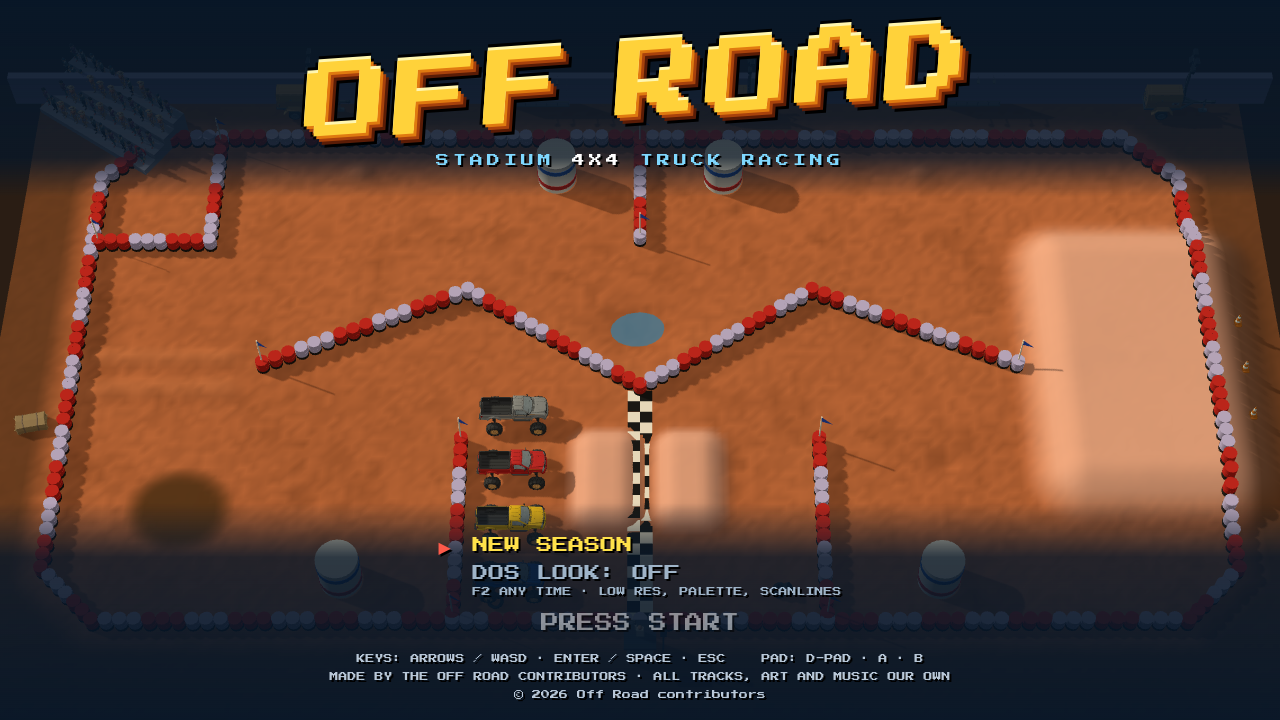
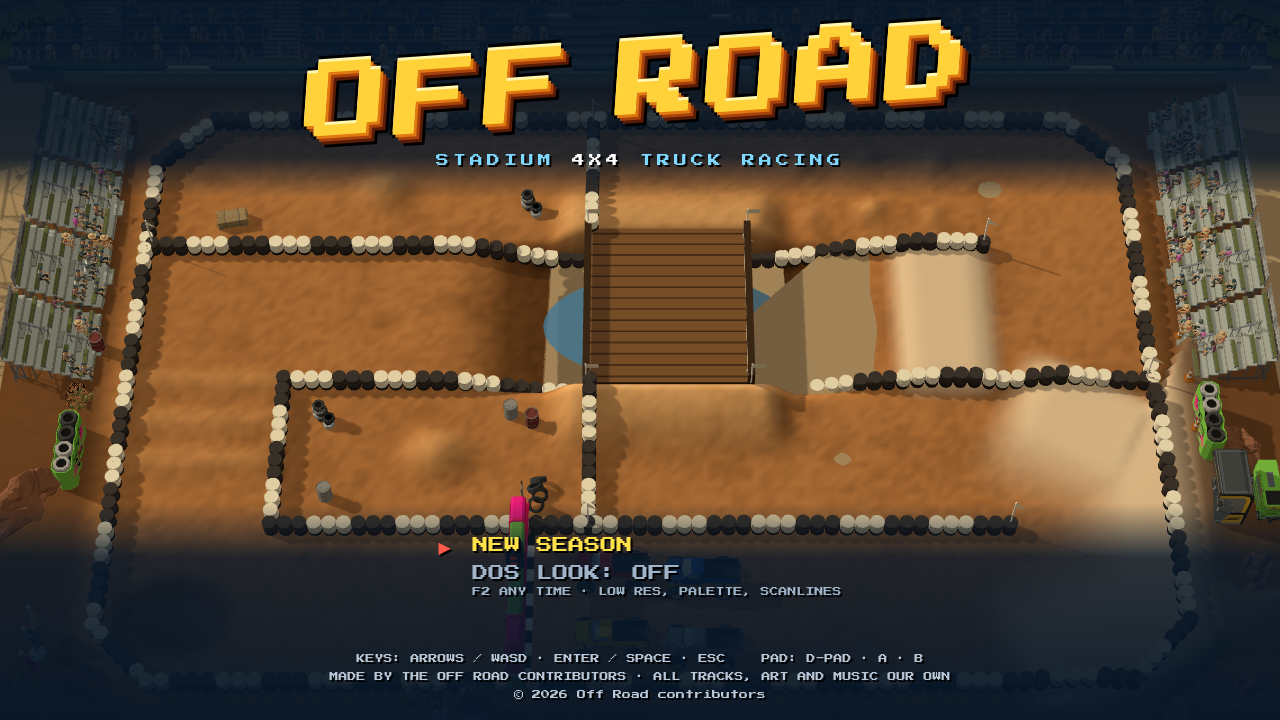
Docs: stadium, crowd, podium and nitro flame in DESIGN (models table, sizes, cost, vehicle decision), README features and pack credits, new screenshots; TODO OR5

diff --git a/docs/DESIGN.md b/docs/DESIGN.md
@@ -37,7 +37,9 @@ src/
     build.ts         grid → ground mesh (per-track palette), water (ellipses, creek ribbons), mud sheen, tyre walls +
                      flags, bridge decks + railings, start line, flagman tower + start lamps, stadium dressing, props
                      (bunting, solid drums), colliders, surface queries, levelAt (deck or ground)
-    props-view.ts    swaps the placeholder props for instanced prop GLBs (PROP_MODELS table) + floodlights
+    props-view.ts    swaps the placeholder props for instanced prop GLBs (PROP_MODELS table); instanceModel()
+    stadium-view.ts  the stadium from the models: grandstands, VIP box, bleachers, start arch + start light, flagman
+                     character, flags, billboards, desert dressing, tumbleweeds; finds the stands' seats
   race/
     session.ts       the world + track + 1–4 trucks and views, effects, physics → game events
     race.ts          the race flow: Get Ready → lamps → race (gates, laps) → finish → results, records, pickups
@@ -49,7 +51,8 @@ src/
                      MeshoptDecoder), withVariant() (KHR_materials_variants), loadTruckModels()
     truck-view.ts    the truck's look: the generator's GLB with manifest-driven wheels, or the box placeholder
     characters.ts    the generator's Synty characters: Character (clone + mixer, play by clip), loadPoses()
-    crowd.ts         the grandstand fans: a few skinned, the rest the generator's baked poses instanced; cheers
+    crowd.ts         the fans on the stadium's seats: a few skinned, the rest baked poses instanced; seated, they
+                     jump up or cheer seated on finishes and big jumps
   fx/
     particles.ts     pooled instanced billboards: dust, water splash, mud spray, nitro smoke
     skids.ts         skid-mark decals: a ring buffer of instanced ground segments that fade out
@@ -57,7 +60,8 @@ src/
     pixel.ts         the bundled pixel font (Press Start 2P) and a style helper
     race-hud.ts      the one-panel race HUD, the track name, centre banners, floating pickup texts
     results.ts       the podium / results screen (season: FREE RACE! / CREDIT LOST, credits, the shop prompt)
-    podium-view.ts   the results screen's 3D podium: its own small canvas, drivers, trucks, trophy
+    podium-view.ts   the results screen's 3D podium: its own small canvas, the podium model, drivers, trucks, trophy,
+                     confetti
     toast.ts         a short message at the top (F2's DOS look setting)
     debug.ts         F3 overlay
     screens/         full-screen menus: common (DOS look, panels, icons), title, hints, register (+ get ready),
@@ -124,7 +128,8 @@ faces +z (south) and π/2 faces +x (east).
 | `flagman {x, z, heading}` | the flagman's tower and start lamps beside the line |
 | `laps?` | default 4 |
 | `reverse {start}` | the reversed variant's grid; the line, the gate order and ramp headings flip automatically (`getTrack(id, true)`, id `<id>-r`) |
-| `props[]` | dressing: `tyre_pile`, `barrel`, `hay_bale`, `cone` (drawn, not collided), `bunting` (pennants on two poles, `len` m across `rot`, standing on the highest ground under it: marks a jump), `drum` (a 3 m banded drum, solid) |
+| `props[]` | dressing: `tyre_pile`, `barrel`, `hay_bale`, `cone` (drawn, not collided), `bunting` (pennants on two poles, `len` m across `rot`, standing on the highest ground under it: marks a jump), `drum` (a 3 m banded drum, solid); trackside (outside the walls): `tyre_barrier` (a sponsor tyre barrier), `flags`, `pit_wall`, `pit_box`, `cactus`, `rock` |
+| `stadium?` | the stadium around the arena (with models): `vip` (x of the VIP box in the grandstand row, null for none, default 0), `sides` (bleachers outside the side walls, default true), `desert` (share of the desert spots filled, 0.6), `flora` (`cactus` saguaros, `scrub` low cacti/succulents/dead trees, `mixed`), `tumbleweeds` (3), `sand` (the ground colour outside) |
 | `palette?` | the track's accent colours: `dirt`, `dirtDark`, `dirtLight`, `ridge`, `wallA` / `wallB` (the tyre paint bands, bridge stripes), `flag`, `backWall`, `accent` (barrels) |
 
 **Bridges (crossings).** A heightfield has one height per point, so a crossover is a `bridge` feature plus its own
@@ -269,6 +274,10 @@ speed, nitro), `impact` (wall / truck / ground, strength 0..1, from Rapier conta
 - `fx/particles.ts`: one instanced billboard mesh (InstancedBufferGeometry + a tiny shader, one draw call), up to
   1200 particles simulated per physics step: dust puffs behind the rear wheels on dirt (rate with speed and slides),
   white spray in water, dark mud flecks in mud, a white nitro puff, a dust ring on hard landings.
+- Nitro flame (`race/truck-view.ts`): while a nitro burns, two flames out of the back of the truck: the Pro Racer
+  flame mesh (`flame`) pointed backwards, drawn with an additive orange material and a white-hot core of our own
+  (the export has no FX shader, OR-FB-019), its length and width jittering every frame (about 1.6 m), fading in and
+  out over a tenth of a second.
 - `fx/skids.ts`: a ring buffer of 2400 ground segments drawn as instanced quads built in the vertex shader from
   their two ends; each wheel extends its trail while sliding (> 2.2 m/s sideways) or braking hard, fading over 22 s.
 
@@ -318,6 +327,9 @@ levels / nitros / keys, `cpus[]`, last outcome, shop cursor and turn, the sign-u
 - `scripts/load-check.mjs <url> title|shop`: the title (ground check on the demo race) and the shop (menus only).
 - `scripts/lap-probe.mjs <url> [track] [tuning JSON]`: lap times and speeds alone, for tuning.
 - `scripts/feel-probe.mjs`: acceleration, braking, turn rate, jump and whoops numbers on the proving ground.
+- `scripts/view.mjs <url> <query> <name> <view…>`: close-ups (`px,py,pz>tx,ty,tz`), `race` (the game camera),
+  `cheer`, `js:<code>` steps and `perf` (8 s real time: fps, draw calls, triangles; `BREAKDOWN=1` lists triangles
+  by mesh) → `test-results/view-<name>-<k>.png`.
 
 ## Season and flow (OR3, OR4 title)
 
@@ -446,24 +458,37 @@ afterwards: `__HAS_MODELS__` (vite.config.ts) is decided at server start, so a m
 
 | Name | Asset | Notes |
 |---|---|---|
-| `truck` | `POLYGON_Palm_City/SM_Veh_Pickup_01` + attach `SM_Veh_Pickup_Lift_01` | `variants` red #c62828 / blue #1e5bc6 / yellow #f2c618 / grey #8a8f94 in one GLB, `origin: axle-centre`, `fit: { length: 4.5 }`, 1024 px, `compress: meshopt` (585 KB) |
-| `tire_pile`, `tire_stack` | Apocalypse `SM_Prop_Tire_Pile_01`, BattleRoyale `SM_Prop_TireStack_01` | kind `tyre_pile` (variant by position) |
-| `barrel`, `barrel_coloured` | Apocalypse `SM_Prop_Barrel_01`, `SM_Prop_Barrel_Coloured_01` | kind `barrel` |
-| `hay_bale` | War `SM_Prop_Hay_Bale_01` | kind `hay_bale` |
-| `tire`, `cone`, `barrier` | Apocalypse `SM_Prop_Tire_01`, Palm City `SM_Prop_Cone_01`, `SM_Prop_Barrier_01` | kinds `tyre`, `cone`, `barrier`, ready for new tracks |
-| `floodlight` | Apocalypse `SM_Prop_Floodlights_01` (a light-mast trailer) | stadium dressing along the back wall |
-| `billboard_pizza/burgers/holiday/donuts` | City `SM_Prop_Billboard_01` + attach `SM_Prop_Billboard_Sign_02/06/03/04` | adverts between the floodlights on the back wall; 1024 px so the art reads (54–260 KB) |
-| `driver_red/yellow/blue/grey` | City Characters `SK_Character_Biker`, BattleRoyale `Character_RedneckMale_01`, Apocalypse `SK_Chr_Mechanic_Female_01`, City Characters `SK_Character_Roadworker` | podium drivers; clips idle, victory, three waves, slumped, qualified `@Masculine` / `@Feminine` (see Presentation); meshopt |
-| `fan_a/b/c` | City Characters `SK_Character_SummerGirl`, `SK_Character_Jock`, `SK_Character_HipsterGuy` | the 6 skinned crowd fans; clips idle and two waves (`@Feminine` / `@Masculine`), `simplify: 0.5`, meshopt |
-| `crowd_a/b/c` | the same three characters | `poses` (`idle` POLY_IDL_Base at 0.6 s, `cheer_a`/`cheer_b` the two-arm wave at 0.12 / 0.5 s), `simplify: 0.5`, meshopt: static meshes for the instanced crowd |
-| `trophy` | Icons `SM_Icon_Trophy_01` | the winner's cup on the podium |
+| `truck` | `POLYGON_Palm_City/SM_Veh_Pickup_01` + attach `SM_Veh_Pickup_Lift_01` | `variants` red #c62828 / blue #1e5bc6 / yellow #f2c618 / grey #8a8f94 in one GLB, `origin: axle-centre`, `fit: { length: 4.5 }`, 1024 px, meshopt (590 KB) |
+| `tire_pile`, `tyre_stack_a/b` | Apocalypse `SM_Prop_Tire_Pile_01`, Pro Racer `SM_Prop_Tyre_Stack_02/04` | kind `tyre_pile` (variant by position) |
+| `barrel`, `barrel_coloured`, `hay_bale`, `tire`, `cone`, `barrier` | Apocalypse, War, Palm City props | kinds `barrel`, `hay_bale`, `tyre`, `cone`, `barrier` |
+| `tyre_barrier`, `flags_sponsor`, `pit_wall`, `pit_box` | Pro Racer `SM_Prop_Barrier_Tyres_01` (CHUG), `SM_Prop_Flag_04`, `SM_Prop_Pit_Wall_01`, `SM_Prop_Pit_Box_02` | trackside kinds `tyre_barrier`, `flags`, `pit_wall`, `pit_box`; sponsor flags also beside every flagman |
+| `grandstand` | Pro Racer `SM_Bld_Grandstand_01` + attach `SM_Bld_Grandstand_Seating_01` | the row behind the back wall (12.5 m sections at 1.1×), 512 px, meshopt; 160 seats each |
+| `vip_box`, `bleachers` | Pro Racer `SM_Bld_Grandstand_VIP_01`, `SM_Prop_Bleachers_01` | the VIP section in the row (32 seats); bleachers outside the side walls (64 seats) |
+| `start_arch`, `start_light`, `flag_chequered` | Pro Racer `SM_Prop_Gantry_06` (the inflatable CHUG arch), `SM_Prop_Trafficlight_01`, `SM_Prop_Flag_01` | the arch over gate 0 (stretched to the gate), the light on its beam (lamp discs lit by the race), chequered flags at its feet and in the flagman's hand |
+| `billboard_skidmark` | Pro Racer `SM_Prop_Billboard_Large_02` | sponsor billboards in the back corners, 1024 px (the A1 SKIDMARK art reads) |
+| `cactus_tall/low`, `succulent_a/b`, `dead_tree`, `rock_a/b`, `rock_tall`, `cliff_a/b`, `tumbleweed` | Arid Desert `SM_Env_Cactus_03/01`, `SM_Env_Succulent_04/06`, `SM_Env_Tree_Dead_02`, `SM_Env_Rock_03`, `SM_Env_Rocks_Spikey_01`, `SM_Env_Rock_07`, `SM_Env_Rock_Cliff_03/16`, `SM_Prop_Tumbleweed_01` | desert outside the walls (kinds `cactus`, `rock` too), meshopt; the cards need `alphaTest` (OR-FB-018) |
+| `driver_red/yellow/blue/grey` | City Characters `SK_Character_Biker`, BattleRoyale `Character_RedneckMale_01`, Apocalypse `SK_Chr_Mechanic_Female_01`, City Characters `SK_Character_Roadworker` | podium drivers; clips `POLY_IDL_Base`, Emotes `Celebrate_BeatChest`, `Celebrate_Clapping_Polite`, `Happy_FistPump` (qualified `@Masculine` / `@Feminine`), Mixamo `Driver_Trophy`, `Driver_Defeated`; meshopt |
+| `flagman` | City Characters `SK_Character_Roadworker` | the flagman on his tower: `POLY_IDL_Base`, Emotes `Happy_ArmsRaised`, Mixamo `Flagman_Wave`; `simplify: 0.6` |
+| `fan_a/b/c` | City Characters `SK_Character_SummerGirl`, `SK_Character_Jock`, `SK_Character_HipsterGuy` | the 6 skinned fans: Mixamo `Crowd_Sit_Idle`, `Crowd_Sit_Cheer`, Emotes `Happy_ArmsRaised`; `simplify: 0.5`, meshopt |
+| `crowd_a…f` | City Characters SummerGirl, Jock, HipsterGuy, Tourist, PunkGirl, Grandpa | `poses`: `sit` (Crowd_Sit_Idle 1.0 s), `sit_cheer_a/b` (Crowd_Sit_Cheer 0.63 / 0.94 s), `arms_a/b` (Happy_ArmsRaised 0.6 / 1.3 s), `fist_a/b` (Happy_FistPump 0.5 / 1.1 s); `simplify: 0.3` (the exporter keeps ~38%), meshopt |
+| `podium`, `trophy` | Pro Racer `SM_Prop_Podium_01`, `SM_Prop_Trophy_01` | the three podium discs at 2× and the winner's cup |
+| `flame` | Pro Racer `SM_Flame_Mesh_01` | the nitro flame's shape (the game draws it additive, OR-FB-019) |
 
 Props default to 256 px WebP textures (Synty atlases are flat colour swatches; 256 px looks the same at the race
 camera), the truck and the billboards 1024 px WebP (the exporter crops each atlas to the region its UVs use).
-Characters, the truck and the crowd poses are `compress: "meshopt"`, so `loadModel` always sets three.js's
-`MeshoptDecoder` on its GLTFLoader. Every clip name is qualified by gender, so `manifest.warnings` is empty for every
-model. Tried and dropped: a stadium light mast (the light-pole pieces are modular parts, OR-FB-007), the Apocalypse tyre wall and a traffic
-light for the start tree (see below).
+Characters, the truck, the crowd poses and the stadium and desert models are `compress: "meshopt"`, so `loadModel`
+always sets three.js's `MeshoptDecoder` on its GLTFLoader. Every clip name is qualified by gender, so `manifest.warnings` is empty for every
+model (two harmless ones: `crowd_b` keeps 38% of its triangles, not 30%; the pit box's two castors "could not be
+mapped" as wheels, OR-FB-023). Tried and dropped: a stadium light mast (the light-pole pieces are modular parts,
+OR-FB-007), the Apocalypse tyre wall, the City billboards and the floodlight trailers (the grandstands took the back
+wall), Pro Racer's characters (OR-FB-016/017) and crowd cards (OR-FB-019), and Arid Desert's background hills (beyond
+the stands, off the top of the screen).
+
+**Vehicles: the lifted pickup stays.** Pro Racer's `SM_Veh_Truck_01` is a race semi-tractor (2.77 × 2.87 × 6.09 m,
+a cab over a bare chassis) and `SM_Veh_Rally_01` a hatchback (0.39 m wheels); `SM_Veh_Dirtbike_01` has two wheels.
+The previews (`ssg model preview … --frames 4`) settle it: neither has the original's chunky big-wheeled stadium
+pickup look that the Palm City pickup on its lift kit gives, so the truck did not change and no race screenshot was
+needed to decide.
 
 **Trucks** (`race/truck-view.ts`). The four colours are one GLB, `truck`, with four paint variants
 (KHR_materials_variants: the geometry once, a tinted texture and material per variant). `loadTruckModels()` loads it
@@ -490,8 +515,41 @@ placeholders it replaced (kinds not in the table keep theirs). Props are drawn a
 
 **Tyre walls stay procedural.** The walls are a tyre per metre × 3 rows in one InstancedMesh (1 draw call) painted in the
 original's red and white bands. The Synty tyre wall is a 4.3 m run of bare black tyres, 0.7 m tall: it would need
-~100 instances per track, could not carry the bands and would not match the 1.3 m wall height. The lamp tree on the
-flagman tower also stays procedural: the race lights its three lamps, and a GLB traffic light has no lamp parts.
+~100 instances per track, could not carry the bands and would not match the 1.3 m wall height (Pro Racer's tyre
+barriers are 3.5 m sponsor blocks: trackside dressing, not a wall). The start light is the Pro Racer traffic light
+on the arch, but its lamps are atlas swatches in one mesh (OR-FB-022), so three procedural lamp discs sit on its lamp
+faces and `track.lights.set(n)` lights them (red top to bottom for 3, 2, 1, all green for GO); the procedural lamp
+tree stays only for the no-models fallback.
+
+**Stadium** (`track/stadium-view.ts`, `dressStadium(track)` from the Session, async). With models:
+- a desert ground plane all round (the track JSON's `stadium.sand`);
+- the grandstand row behind the back wall, spanning the arena plus 10 m each side, with the VIP section at
+  `stadium.vip`; the back wall is lowered to 1.4 m so the front rows show over it, and the race camera's frame box
+  takes in a point 3.5 m up, 7 m behind the walls (`STAND_TOP`), so the top strip of the screen is crowd like the
+  original's; build.ts's procedural stand is removed;
+- bleachers outside the side walls in the back half (`stadium.sides`);
+- the inflatable sponsor arch over gate 0, stretched to the gate's length, the start light on its beam facing the
+  camera, chequered flags at its feet, sponsor flags beside the flagman's tower;
+- the flagman is the roadworker character on the tower (`flagman`): idle, arms raised in the countdown, `Flagman_Wave`
+  at GO, the chequered flag following his right hand (upright, swinging with the wave); build.ts's box man is hidden;
+- sponsor billboards (A1 SKIDMARK) in the back corners with cliffs behind them;
+- the desert outside the walls on a jittered grid: low cacti and rocks only in the near strip (nothing hides the near
+  lane), cacti, succulents, dead trees and rocks on the side strips, by `stadium.flora` and `stadium.desert`, kept
+  clear of the flagman, the arch, the bleachers and the track's props; cacti/succulents/tumbleweed get `alphaTest`
+  (OR-FB-018); small dressing casts no shadow;
+- tumbleweeds (`stadium.tumbleweeds`) rolling east along the near strip with gusts, bouncing, wrapping round
+  (instanced, updated per frame by `Session.render`);
+- seats: `findSeats(model)` casts rays down through a stand model (in its own frame, cached) and finds the flats
+  of its profile; a flat 0.3–0.6 m above the one in front is a seat row with the feet on the lower flat, and a seat
+  every 0.62 m where a ray finds that seat height (OR-FB-024). 160 per grandstand section, 32 on the VIP box, 64 per
+  bleacher; the crowd gets the ones the race camera frames.
+
+Per track (`stadium` in the JSON): Rattlesnake mixed flora; Coyote Canyon saguaros, the VIP left of centre; Bone
+Yard scrub, a pale bone-coloured desert, four tumbleweeds; Dry Creek scrub, a darker desert, the VIP right; Twister
+Flats six tumbleweeds; Buzzard Bend and Thunder Ridge saguaros (the VIP left / right); Mesa Mayhem dense scrub on a
+red desert. Each also has trackside props in the front half of its side strips (a CHUG tyre barrier, a pit wall and
+pit box, sponsor flags), skipped where the flagman stands. Every HUD spot is untouched (the dressing is outside the
+walls).
 
 **Cost** (Rattlesnake race, 4 trucks, SwiftShader at 1280×720; counted from the scene, main pass):
 
@@ -504,11 +562,11 @@ Each truck is 16.7k triangles in 14 meshes (doors, glass, wheels, lift kit); pro
 per model however many are placed. SwiftShader is CPU-bound and runs ~5 fps either way (the checks use
 `advance()`); on a real GPU the scene is well inside budget.
 
-**Bundle** (exporter v6): `dist/` is 9.6 MB: the JS bundle 5.2 MB (1.9 MB gzipped; mostly Rapier's WASM inlined)
-and `dist/models/` 4.4 MB for 25 models. The GLBs total 4.37 MB: the truck 585 KB (all four colours, meshopt; 441 KB
-gzipped), the four drivers 1.37 MB, the three skinned fans 0.51 MB, the three crowd pose sets 0.61 MB, the four
-billboards 0.83 MB and the nine props + trophy 0.47 MB. The same 21 models as before the billboards and crowd poses
-would be 2.93 MB.
+**Bundle** (OR5): `dist/` is 13 MB: the JS bundle 5.4 MB (1.9 MB gzipped; mostly Rapier's WASM inlined) and
+`dist/models/` 7.65 MB (7.3 MiB) for 49 models: the six crowd pose sets 2.62 MB (~0.44 MB each, seven poses), the
+four drivers 1.76 MB, the desert 0.77 MB, the skinned fans 0.64 MB, the truck 0.59 MB, the trackside and arena props
+0.5 MB, the stands 0.25 MB, the flagman 0.19 MB, the billboards 0.16 MB, the start arch/light/flags 0.13 MB, the
+podium + cup 0.03 MB and the flame 0.01 MB. Before meshopt on the stadium and desert models the same 49 were 9.5 MB.
 
 | models | GLBs |
 |---|---|
@@ -516,54 +574,62 @@ would be 2.93 MB.
 | 4 tinted trucks (1.37 MB each), 256 px webp props, skinned fans, exporter v5 | 9.63 MB (21 models) |
 | the same specs re-exported by exporter v6 (cropped atlases) | 8.63 MB (21 models) |
 | one `variants` truck + meshopt, qualified clips, simplified fans, crowd `poses`, billboards | 4.37 MB (25 models) |
+| + Pro Racer stadium, Arid Desert, 6 seated crowd sets, flagman, podium (OR5), meshopt on everything static | 7.65 MB (49 models) |
 
 ## Presentation (OR4)
 
 ### Podium (`ui/podium-view.ts`)
 With models, the results screen's flat pixel drivers become a 3D scene in a 922 × 300 canvas between the times box
 and the plates. It has its own `WebGLRenderer` (one context, made on first use and kept; `alpha` so the screen's
-checker shows round a disc of arena dirt) and its own `requestAnimationFrame` loop while the screen is up. Three
-steps (gold, silver, bronze; the number drawn on a canvas texture with the face's aspect) stand in plate order
-2nd, 1st, 3rd, with 4th on the ground to the right, 3.6 m apart, and the camera's fov is set from the canvas aspect
-so the four columns land over the four plates. Each driver stands in front of their truck (the same TruckView,
+checker shows round a disc of arena dirt) and its own `requestAnimationFrame` loop while the screen is up. The
+podium is Pro Racer's (`podium`, three black discs with a red band, at 2×), centred on the winner's column so its
+discs stand in plate order 2nd, 1st, 3rd, 3.6 m apart, with 4th on the ground to the right; each disc's top is found
+by a ray cast down at its column and its place number (gold, silver, bronze, Press Start 2P) is a canvas label on its
+front. Without the model the procedural steps (gold, silver, bronze boxes) stay. The camera's fov is set from the
+canvas aspect so the four columns land over the four plates. Confetti (260 instanced paper squares, six colours)
+falls and flutters over the winner, recycled at the top (Pro Racer's confetti is a particle effect, OR-FB-020). Each driver stands in front of their truck (the same TruckView,
 parked at `TruckView.groundLift`, turned a little), both at `TRUCK_LOOK`.
 
 | place | clip | |
 |---|---|---|
-| 1st | `MartialArts_Victory` once, then `POLY_IDL_Wave_Double_Loop` | holds the trophy (`trophy`, `SM_Icon_Trophy_01` × 1.7) in `hand_r`, kept upright |
-| 2nd | `POLY_IDL_Wave_Large_Loop` | |
-| 3rd | `POLY_IDL_Wave_Small_Loop` | (no clap clip, OR-FB-009) |
-| 4th | `POLY_IDL_Posture_Slumped_Loop` | |
+| 1st | Emotes `POLY_EMOT_Celebrate_BeatChest` once, then Mixamo `Driver_Trophy` (both arms overhead) | holds the cup (`trophy`, Pro Racer `SM_Prop_Trophy_01` × 0.95) in `hand_r`, kept upright |
+| 2nd | Emotes `POLY_EMOT_Celebrate_Clapping_Polite` | |
+| 3rd | Emotes `POLY_EMOT_Happy_FistPump` | |
+| 4th | Mixamo `Driver_Defeated` (head down; the Emotes `Sad_Tired` is subtler) | |
 
 Drivers by truck colour (`driver_<colour>` in ssg.models.json): red `SK_Character_Biker` (City Characters),
 yellow `Character_RedneckMale_01` (BattleRoyale), blue `SK_Chr_Mechanic_Female_01` (Apocalypse), grey
 `SK_Character_Roadworker` (City Characters, hi-vis). Every driver carries all six clips (any of them can finish
-anywhere), 0.32–0.39 MB each with meshopt. The specs name the Idles-pack clips with the driver's gender
-(`POLY_IDL_Wave_Large_Loop@Feminine` for the mechanic); the GLB keeps the qualified name, and `findClip` matches the
+anywhere), 0.39–0.46 MB each with meshopt. Pro Racer's racing-suit drivers would suit better (their suits take
+`variants`) but export with white skin (OR-FB-016) and their helmets attach at the feet (OR-FB-017). The specs name
+the Synty clips with the driver's gender (`POLY_EMOT_Happy_FistPump@Feminine` for the mechanic; the Mixamo uploads
+have one version each); the GLB keeps the qualified name, and `findClip` matches the
 base name in `CLIPS` to it, so the game code names clips without the qualifier. `main.ts` preloads them after boot. The trophy follows the hand bone's world
 position rather than being parented to it, so it never takes the bone's axes. `window.__or.podium()` gives
 `stop()`, `tick(dt)` (step the clips by hand for frame captures) and `info` (draw calls, triangles).
 
 ### Crowd (`race/crowd.ts`)
-build.ts names its grandstand group `grandstand` and its box crowd `crowd` (the hook); the Session's `Crowd`
-hides the boxes once the fans have loaded and stands a fan on every other box spot (44 on the four benches), at
-`FAN_LOOK = 1.05`. Three characters (City Characters SummerGirl, Jock, HipsterGuy), each exported twice:
-- `crowd_a/b/c` (`poses`): the generator bakes each into three static meshes, one node per pose: `idle`
-  (`POLY_IDL_Base` at 0.6 s), `cheer_a` and `cheer_b` (`POLY_IDL_Wave_Double_Loop` at 0.12 s and 0.5 s), no skeleton.
-  `loadPoses()` returns each pose's mesh parts with their matrix in the export (the meshopt child carries the
-  dequantising transform). One InstancedMesh per fan model per pose; while cheering, each fan flips between the two
-  cheer frames at its own phase (~4 Hz) and hops a little, and the matrices are re-packed so each mesh draws only the
-  fans in its pose. 38 fans.
-- `fan_a/b/c` (skinned, clips idle and two waves): 6 fans along the front rows are `Character`s with their own mixer
-  (idle; when cheering a two-arm or a large wave, cross-faded). They keep the front rows moving smoothly between
-  the frame-flipping instanced fans, at 6 draw calls, so they stay.
-- Both are `simplify: 0.5` (~1.1k triangles a fan instead of ~2.3k): from the race camera and in a close-up of the
-  stand the faceted look is unchanged (docs/screenshots/crowd.png).
+The fans sit on the stadium's seats (`StadiumView.seats`, found by `findSeats`, see "Stadium"): the Session hands the
+Crowd a promise of them. Of the seats the race camera frames (1384 on Rattlesnake Run), it fills up to 320, scored
+by a hash plus a little per row so the front rows are fuller but the back is not empty, at `FAN_LOOK = 1.1` (the
+stands are drawn at 1.1 too). Six City Characters (SummerGirl, Jock, HipsterGuy, Tourist, PunkGirl, Grandpa):
+- `crowd_a…f` (`poses`): seven static meshes each, one node per pose: `sit` (Mixamo `Crowd_Sit_Idle` at 1.0 s),
+  `sit_cheer_a/b` (`Crowd_Sit_Cheer` at 0.63 / 0.94 s: an arm up), `arms_a/b` (Emotes `Happy_ArmsRaised` at 0.6 /
+  1.3 s) and `fist_a/b` (`Happy_FistPump` at 0.5 / 1.1 s). All poses share the first pose's origin (the seated
+  fan's feet), so a fan stands up in place. `loadPoses()` returns each pose's mesh parts with their matrix in the
+  export (the meshopt child carries the dequantising transform). One InstancedMesh per fan model per pose; the
+  matrices are re-packed so each mesh draws only the fans in its pose.
+- Seated while nothing happens. On a cheer, 45% of the fans jump up (half arms raised, half fist-pumping) and hop a
+  little; the rest cheer from their seats; each flips between its two frames at its own phase (~4 Hz).
+- `fan_a/b/c` (skinned: `Crowd_Sit_Idle`, `Crowd_Sit_Cheer`, `Happy_ArmsRaised`): 6 fans spread along the front row
+  are `Character`s with their own mixer, cross-fading seated → cheering, so the front rows move smoothly between the
+  frame-flipping instanced fans.
+- `simplify: 0.3` on the pose sets (the exporter keeps 38–40%: ~820 triangles a fan); the crowd casts no shadow.
 - Cheers: `finish` (any truck, 4 s) and `land` with `airTime ≥ 0.5 s` (2.5 s), from the event bus; a new cheer
-  extends the current one. `window.__or.crowd()` gives `cheer(s)`, `cheering`, `drawCalls()`, `ready`.
+  extends the current one. `window.__or.crowd()` gives `cheer(s)`, `cheering`, `count`, `drawCalls()`, `ready`.
+- Without models there are no seats and build.ts's procedural stand keeps its box crowd.
 - The pose geometry belongs to the cached model; RaceScene.dispose detaches the crowd before it frees the scene.
-- Before OR-FB-012 was fixed the game baked the poses itself (`bakePose`: a mixer per pose and the skin applied to
-  every vertex on the CPU at load).
+- The Mixamo clips (`Crowd_*`, `Driver_*`, `Flagman_Wave`) are in the generator's `_Uploads` pack (ids 3348–3363).
 
 **Cost** (Rattlesnake race, 4 trucks, SwiftShader 1280×720, both passes: main + shadow map; the crowd's own
 triangles are per pass):
@@ -575,9 +641,17 @@ triangles are per pass):
 | game-baked fans, full detail, cheering (before) | 226 | 562k | ~98k | 4 |
 | exported poses + simplify 0.5 + billboards, idle | 232 | 466k | 49.5k | 4.0 |
 | exported poses + simplify 0.5 + billboards, cheering | 238 | 466k | 49.5k | 4.0 |
+| Pro Racer stadium + desert, 320 seated fans (OR5), idle | 263 | 665k | 263k | 4.0 |
+| the same, cheering, mid-race (`view.mjs … perf`) | 301 | 757k | 263k | 4.0 |
 
 The fans now add 9–12 draw calls and ~49k triangles per pass (half of before); the four billboards add ~12 draw
 calls. SwiftShader is CPU-bound at ~4 fps either way, so the frame rate does not move there.
+
+With the stadium (OR5) the crowd is 320 fans in view (of 1384 seats the camera frames) at ~820 triangles each, drawn
+in the main pass only (`castShadow = false`), as 6 models × 7 poses of instanced meshes (~20 of them non-empty at a
+time) plus 6 skinned fans. Seven grandstand sections, the VIP box and eight bleachers are one InstancedMesh per GLB
+mesh; the desert is ~15 models, instanced, unshadowed. SwiftShader still measures 4 fps on Rattlesnake Run at
+1280×720 (`node scripts/view.mjs <url> scene=race p perf`, 8 s real time); the extra triangles are the crowd's.
 
 ### Local multiplayer (`engine/input.ts`, `game/flow.ts`)
 Up to three humans like the original (red, yellow, blue; grey is always the CPU boss). They join at the sign-up

diff --git a/README.md b/README.md
@@ -16,13 +16,17 @@ source assets by hand.
 - **Eight stadium tracks**, each also raced in reverse: bridges, a jump crossing, banked lanes, plateaus, a creek,
   whoops, mud and water.
 - **Four-truck, four-lap races** against three CPU drivers who follow the racing line, bump you, fire nitros on the
-  straights and grab money bags and nitro bottles. A flagman and a lamp tree start every race.
+  straights and grab money bags and nitro bottles. A flagman on his tower and a start light on the sponsor arch
+  start every race; a nitro burst lights a flame out of the back of the truck.
 - **A season**: sign up with your initials and truck colour, win prize money ($100K / $90K / $80K / $70K), keep
   your credits by beating every CPU truck, and spend your cash in the **Speed Shop** (nitro, acceleration, tires,
   shocks, top speed). The track rotation adds tracks and flips their direction as the season goes on.
-- **A 3D podium** after every race: the top three drivers on the steps in front of their trucks, the winner raising
-  the trophy, 2nd and 3rd waving, 4th slumped; prize money, times and the track record.
-- **A crowd** in the grandstand that cheers at the finish and at big jumps.
+- **A 3D podium** after every race: the top three drivers on the podium in front of their trucks, the winner beating
+  their chest and lifting the cup under confetti, 2nd clapping, 3rd fist-pumping, 4th hanging their head; prize
+  money, times and the track record.
+- **A stadium** round every track: grandstands with a VIP box along the back and bleachers down the sides, full of
+  seated fans who jump up and cheer at the finish and at big jumps; sponsor billboards, flags and tyre barriers, a pit
+  wall, and the desert outside with cacti, rocks and tumbleweeds rolling in the wind. Each track has its own desert.
 - **FM-style music and sound effects** synthesised in the browser: engines, skids, splashes, crashes, countdown.
 - **A title screen with a demo race** and an attract loop with racing hints.
 - **The DOS look** (F2): 200 lines, a 256- or 16-colour palette and scanlines.
@@ -36,6 +40,9 @@ source assets by hand.
 ![The Speed Shop](docs/screenshots/shop.png)
 
 ![The results podium](docs/screenshots/race-results.png)
+![The crowd cheering in the grandstand](docs/screenshots/crowd.png)
+![The start arch, the start light and the flagman](docs/screenshots/start-gantry.png)
+![A nitro burst](docs/screenshots/nitro.png)
 ![The DOS look (F2), 256 colours](docs/screenshots/dos-look.png)
 
 ## Tracks
@@ -111,8 +118,12 @@ Models are generated locally and are not committed: Synty assets can't be redist
 
 ## Credits
 
-Built with three.js and Rapier. 3D assets: Synty Studios POLYGON packs (licensed), exported through the
-synty-sprite-generator pipeline. Music and sound synthesised in the browser. Font: Press Start 2P by CodeMan38
+Built with three.js and Rapier. 3D assets: Synty Studios packs (licensed), exported through the
+synty-sprite-generator pipeline: POLYGON Pro Racer (the stadium, start arch and light, flags, billboards, tyre
+barriers, pit wall, podium, cup, nitro flame), POLYGON Arid Desert Nature Biome (cacti, succulents, rocks, cliffs,
+tumbleweeds), POLYGON Palm City (the trucks), POLYGON City Characters, POLYGON BattleRoyale and POLYGON Apocalypse
+(drivers, fans, the flagman, props), POLYGON War (hay bales); animations from Synty ANIMATION Idles and ANIMATION
+Emotes and Taunts, and Mixamo (seated crowd, driver and flagman clips). Music and sound synthesised in the browser. Font: Press Start 2P by CodeMan38
 (SIL Open Font License), via @fontsource.
 
 ## Licence

diff --git a/TODO.md b/TODO.md
@@ -87,6 +87,20 @@ generator's TODO ("3D models + Off Road", "Inbox: from Off Road").
       `or.settings`; a full settings screen (volumes) is still open
 
 ## OR5 · Polish and story
+- [x] Stadium from the bought packs (Pro Racer, Arid Desert, Emotes and Taunts, Mixamo uploads): grandstands + VIP box
+      along the back and bleachers down the sides with ~320 seated fans (`Crowd_Sit_*`) who jump up to cheer
+      (Emotes ArmsRaised / FistPump), 6 skinned; the sponsor arch over the start line with the traffic light (lamp
+      discs lit by the race); the flagman character (`Flagman_Wave`, chequered flag in hand); sponsor flags,
+      billboards, CHUG tyre barriers, pit wall and box; the desert outside (cacti, succulents, rocks, cliffs, rolling
+      tumbleweeds) varied per track by `stadium` options; `scripts/view.mjs` close-ups + perf probe
+- [x] Podium: Pro Racer podium discs + numbers, the Pro Racer cup, confetti; winner chest-beat → `Driver_Trophy`
+      lift, 2nd claps, 3rd fist-pumps, 4th `Driver_Defeated`
+- [x] Nitro flame (Pro Racer flame mesh, additive, flickering)
+- [x] Vehicles evaluated: Pro Racer's truck is a race semi and the rally car a hatchback, so the lifted pickup stays
+      (docs/DESIGN.md "Vehicles")
+- [x] Models 7.65 MB / 49 (meshopt on all static models); SwiftShader still 4 fps (crowd 263k triangles, main pass only)
+- [ ] Pro Racer drivers in racing suits once OR-FB-016/017 are fixed (white skin, helmets at the feet); drivers in
+      the cabs (`Driver_Drive`) if a closer camera ever shows them
 - [ ] Performance passes (instancing, shadow budget), gamepad polish
 - [x] A gallery page (`gallery.html` in the Pages build: the trailer, screens and tracks in the DOS style)
 - [ ] The chapter-per-milestone documentary treatment like the other games
